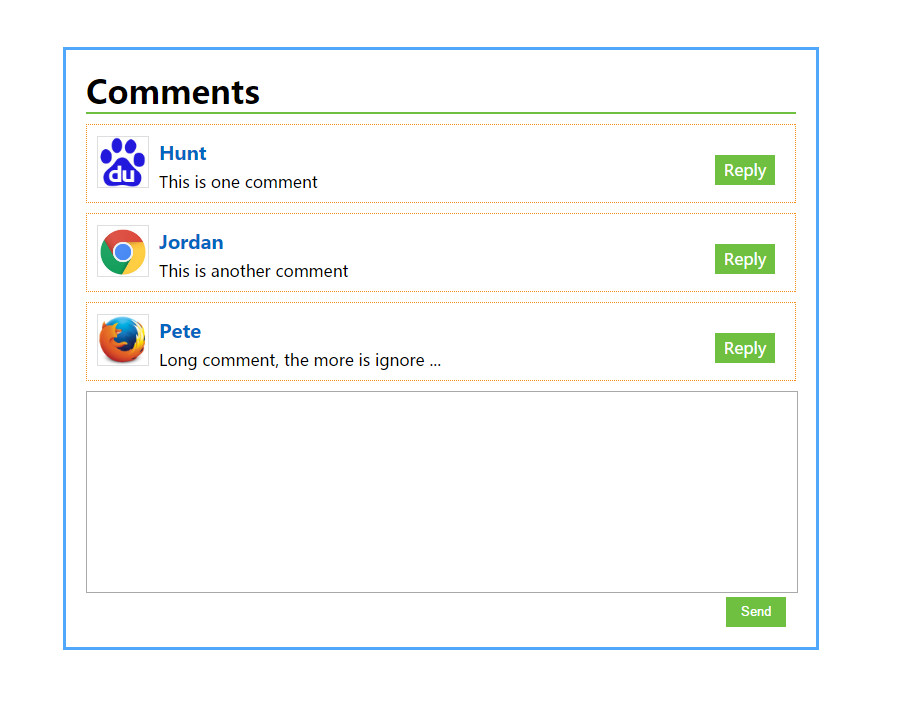
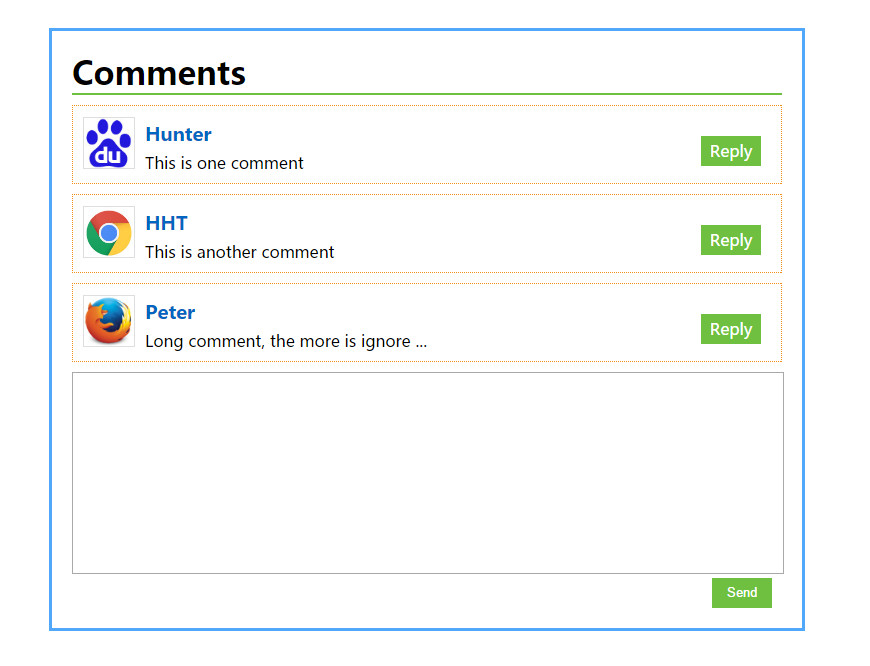
commentBox

Changed region(s): [[0.031, 0.03, 0.931, 0.961]]

diff --git a/Demos/reactjs_commentBox/commentBox.html b/Demos/reactjs_commentBox/commentBox.html
@@ -79,9 +79,9 @@
 <script type="text/babel">
 
 	var data = [
-		  {id: 1, author: "Hunt", text: "This is one comment",img:"img/baidu.jpg"},
-		  {id: 2, author: "Jordan", text: "This is another comment",img:"img/google.jpg"},
-		  {id: 3, author: "Pete ", text: "Long comment, the more is ignore, this comment is too long",img:"img/huohu.jpg"}
+		  {id: 1, author: "Hunter", text: "This is one comment",img:"img/baidu.jpg"},
+		  {id: 2, author: "HHT", text: "This is another comment",img:"img/google.jpg"},
+		  {id: 3, author: "Peter", text: "Long comment, the more is ignore, this comment is too long",img:"img/huohu.jpg"}
 		];
 
 	var CommentBox=React.createClass({
